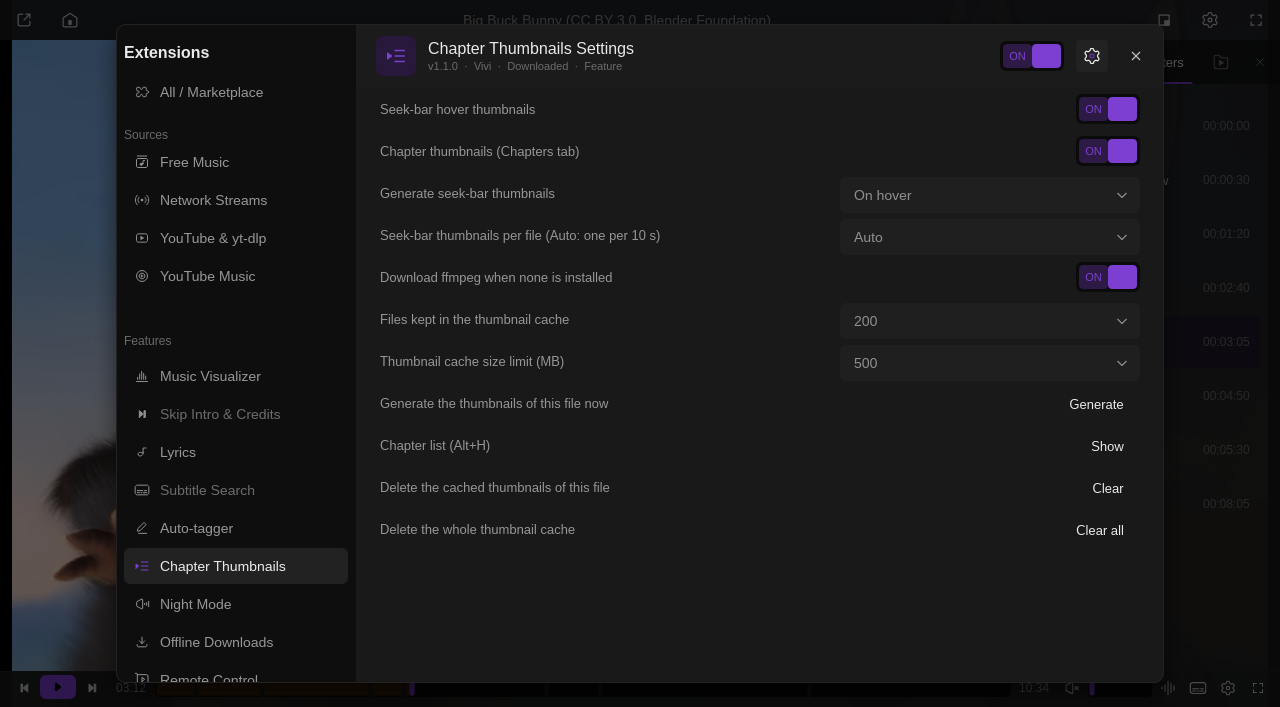
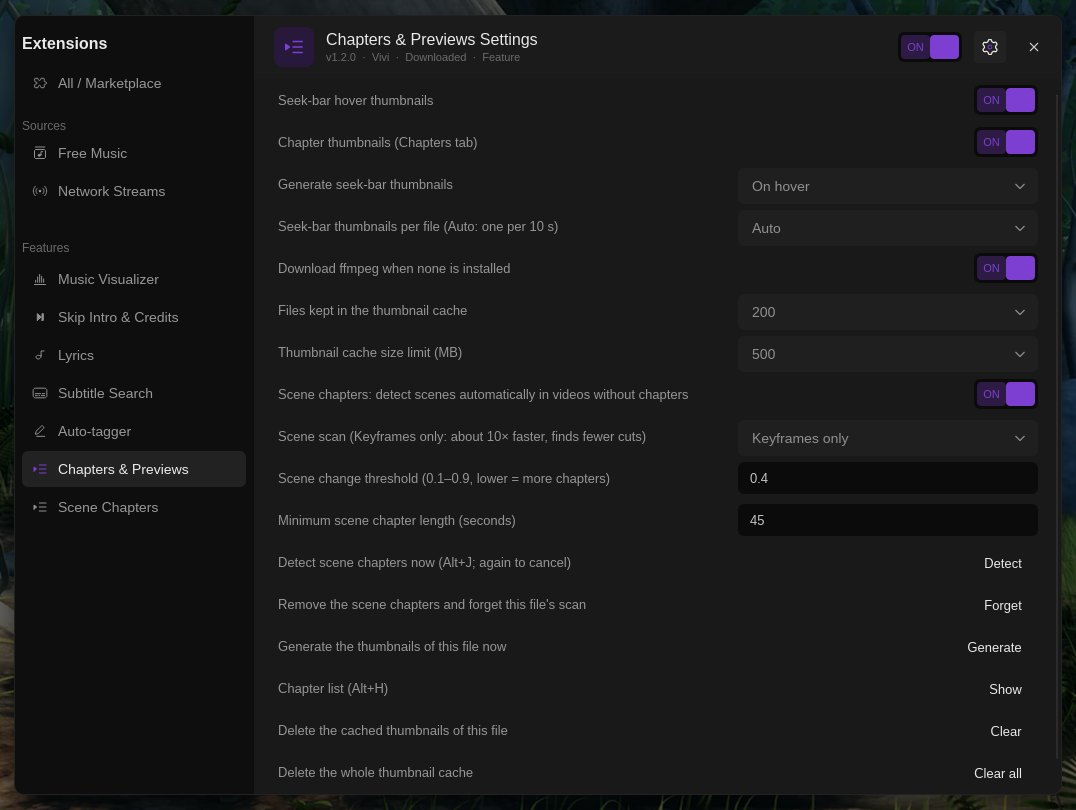
Chapters & Previews 1.2.0: Forget scene chapters in the command palette; scene chapters screenshot, settings screenshot with the scene rows

diff --git a/plugins/chapter-thumbnails/README.md b/plugins/chapter-thumbnails/README.md
@@ -44,6 +44,8 @@ displays the images.
 For local videos without chapters of their own, ffmpeg finds the scene changes and they
 become `Scene 1`, `Scene 2`, … chapters (with pictures, like any chapter).
 
+![Scene chapters with their pictures in the Chapters tab (Big Buck Bunny, © Blender Foundation, CC BY 3.0)](../../docs/screenshots/plugins/chapter-thumbnails-scenes.png)
+
 * **When**: `Alt+J`, *Video → Detect scene chapters*, the command palette or *Detect* in
   the settings; `Alt+J` again while it runs cancels. *Scene chapters: detect scenes
   automatically* (off by default) scans every such video one second after it opens.
@@ -57,8 +59,9 @@ become `Scene 1`, `Scene 2`, … chapters (with pictures, like any chapter).
   order, whether they arrive before or after the scan.
 * **Cache**: `<key>/scenes.json` next to the thumbnails (every cut with the threshold and
   scan used, so a new minimum length applies at once; another threshold scans again).
-  Scans made by the old Scene Chapters plugin are reused. *Forget* removes the scene
-  chapters of the playing video and its scan; *Clear* removes it with the thumbnails.
+  Scans made by the old Scene Chapters plugin are reused. *Forget* (also in the command
+  palette) removes the scene chapters of the playing video and its scan; *Clear* removes
+  it with the thumbnails.
 * **From Scene Chapters**: Scene Chapters 1.1.1 notices this plugin, leaves `Alt+J` and
   automatic scans to it, copies its non-default settings here once, and can then be
   uninstalled.
